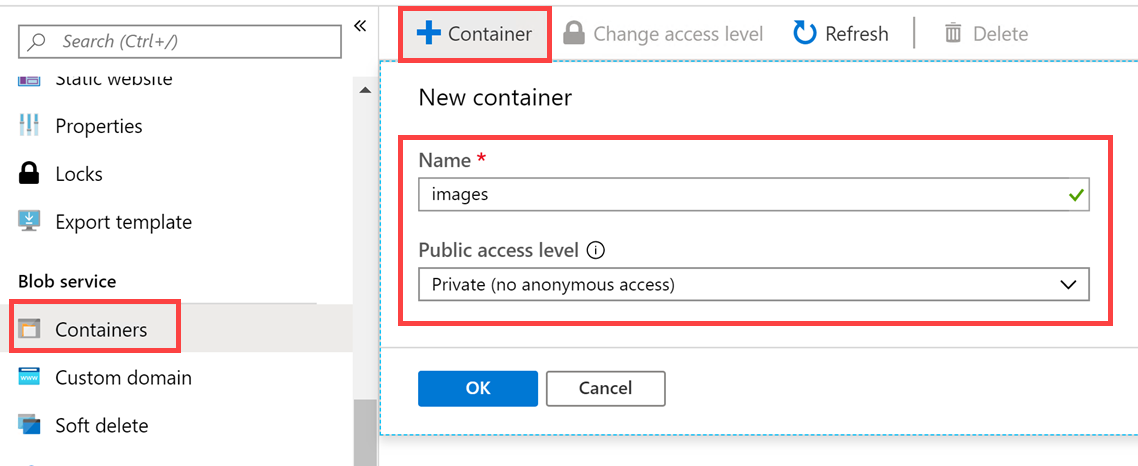
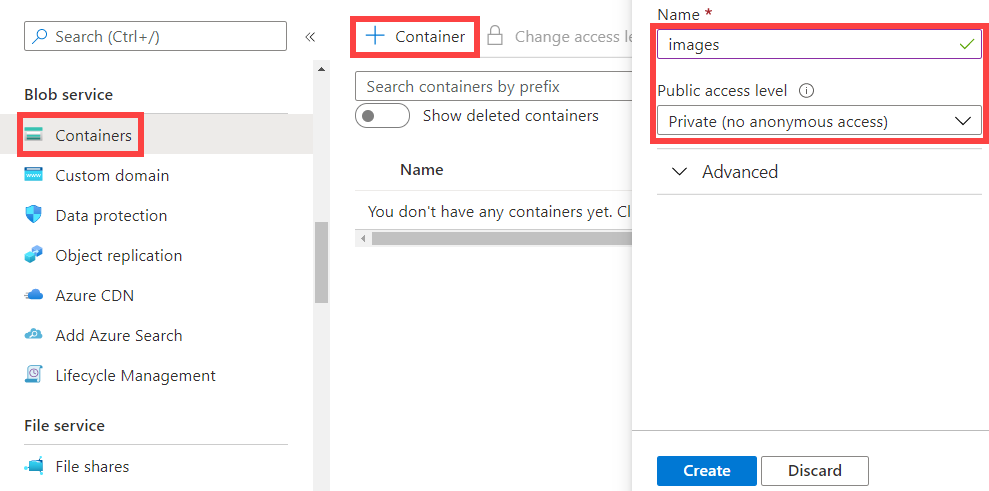
Minor updates to steps.

diff --git a/Hands-on-lab/HOL step-by-step - Serverless architecture.md b/Hands-on-lab/HOL step-by-step - Serverless architecture.md
@@ -161,7 +161,7 @@ In this exercise, you will provision an Azure Blob Storage Account using the Hot
 
 6. Paste the value into a text editor, such as Notepad, for later reference.
 
-7. Select **Containers** under **Blob Service** in the left menu. Then select the **+ Container** button to add a new container. In the **Name** field, enter **images**, select **Private (no anonymous access)** for the public access level, then select **OK** to save.
+7. Select **Containers** under **Blob Service** in the left menu. Then select the **+ Container** button to add a new container. In the **Name** field, enter **images**, select **Private (no anonymous access)** for the public access level, then select **Create** to create the container.
 
     ![In the Storage blade, under Settings, Containers is selected. In the Containers blade, the + (add icon) Container button is selected. Below, the Name field displays images, and the Public access level is set to Private (no anonymous access).](media/storage-new-container-images.png 'Storage and Containers blade')
 
@@ -187,7 +187,7 @@ In this exercise, you will provision an Azure Blob Storage Account using the Hot
 
     d. **Publish**: Select **Code**.
 
-    e. **Runtime stack**: Select **.NET Core**.
+    e. **Runtime stack**: Select **.NET**.
 
     f. **Version**: Select **3.1**.
 
@@ -211,24 +211,15 @@ In this exercise, you will provision an Azure Blob Storage Account using the Hot
 
     a. **Enable Application Insights**: Select **Yes**.
 
-    b. **Application Insights**: Select **Create new**.
+    b. Leave other options 'as is'.
 
-    ![In the Monitoring tab of the Create Function App blade, the form fields are set to the previously defined values.](media/new-functionapp-net-monitoring.png "Function App Monitoring blade")
-
-6. In the `Create new Application Insights` dialog, provide the following information, then select **OK**:
-
-    a. **Name**: Unique value for the App name similar to **TollboothMonitor** (ensure the green check mark appears).
-    b. **Location**: Select the same Azure region you selected for your Function App.
-
-    ![The new Application Insights form is configured as described.](media/new-app-insights.png "Create new Application Insights")
-
-7. Select **Review + create**, then select **Create** to provision the new Function App.
+6. Select **Review + create**, then select **Create** to provision the new Function App.
 
     ![The Review + create button is highlighted.](media/new-functionapp-net-monitoring-review.png "Function App Monitoring")
 
-8. **Repeat steps 1-3** to create a second Function App.
+7. **Repeat steps 1-3** to create a second Function App.
 
-9. Within the **Create Function App** blade *Basics* tab, specify the following configuration options:
+8. Within the **Create Function App** blade *Basics* tab, specify the following configuration options:
 
     a. **Subscription**: Select your Azure subscription for this lab.
 
@@ -406,9 +397,7 @@ In this exercise, you will provision an Azure Blob Storage Account using the Hot
 
     ![In the Create Computer Vision blade, fields are set to the previously defined values.](media/create-computer-vision.png 'Create blade')
 
-3. Select **Create**.
-
-    ![Screenshot of the Create button.](media/image13.png 'Create button')
+3. Select **Review + create** then **Create**.
 
 4. After the Computer Vision API has completed provisioning, open the service by opening the **ServerlessArchitecture** resource group, and then selecting the **Computer Vision** **API** service name.
 
@@ -525,7 +514,7 @@ The starter project, TollBooth, contains most of the code needed. You will add i
 
 In order for your Function App to access Key Vault and read secrets, you must [create a system-assigned managed identity](https://docs.microsoft.com/azure/app-service/overview-managed-identity#adding-a-system-assigned-identity) for the Function App, and [create an access policy in Key Vault](https://docs.microsoft.com/azure/key-vault/key-vault-secure-your-key-vault#key-vault-access-policies) for the application identity.
 
-1. Open the **ServerlessArchitecture** resource group, and then select the Azure Function App you created whose name ends with **FunctionApp**. This is the one you created using the **.NET Core** runtime stack. If you did not use this naming convention, that's fine. Just be sure to make note of the name so you can distinguish it from the Function App you will be developing using the portal later on.
+1. Open the **ServerlessArchitecture** resource group, and then select the Azure Function App you created whose name ends with **FunctionApp**. This is the one you created using the **.NET** runtime stack. If you did not use this naming convention, that's fine. Just be sure to make note of the name so you can distinguish it from the Function App you will be developing using the portal later on.
 
     ![In the ServerlessArchitecture resource group, the TollBoothFunctionApp is selected.](media/image33.png 'ServerlessArchitecture resource group')
 
@@ -541,26 +530,24 @@ In this task, you will apply application settings using the Microsoft Azure Port
 
     ![In the TollBoothFunctionApp blade on the Overview tab, under Configured features, the Configuration item is selected.](media/image34.png 'TollBoothFunctionApp blade')
 
-2. In the **Application settings** section use the **+ New application setting** option to create the following additional Key/Value pairs (the key names must exactly match those found in the table below). **Be sure to remove the curly braces (`{}`)**.
+2. Scroll to the **Application settings** section. Use the **+ New application setting** link to create the following additional Key/Value pairs (the key names must exactly match those found in the table below). **Be sure to remove the curly braces (`{}`)**.
+
+| **Application Key** | **Value** |
+| ------------------------ | :----------------------------------------------------------------------------------------------------: |
+| computerVisionApiUrl     | Computer Vision API endpoint you copied earlier. Append **vision/v2.0/ocr** to the end. Example: `https://<YOUR-SERVICE-NAME>.cognitiveservices.azure.com/vision/v2.0/ocr` |
+| computerVisionApiKey     | Enter `@Microsoft.KeyVault(SecretUri={referenceString})`, where `{referenceString}` is the URI for the **computerVisionApiKey** Key Vault secret                                                                   |
+| eventGridTopicEndpoint   | Event Grid Topic endpoint                                                                  |
+| eventGridTopicKey        | Enter `@Microsoft.KeyVault(SecretUri={referenceString})`, where `{referenceString}` is the URI for the **eventGridTopicKey** Key Vault secret                                                                 |
+| cosmosDBEndPointUrl      | Cosmos DB URI                                                                        |
+| cosmosDBAuthorizationKey | Enter `@Microsoft.KeyVault(SecretUri={referenceString})`, where `{referenceString}` is the URI for the **cosmosDBAuthorizationKey** Key Vault secret                                                                    |
+| cosmosDBDatabaseId       | Cosmos DB database id (LicensePlates)                                                            |
+| cosmosDBCollectionId     | Cosmos DB processed collection id (Processed)                                                        |
+| exportCsvContainerName   | Blob storage CSV export container name (export)                                                       |
+| blobStorageConnection    | Enter `@Microsoft.KeyVault(SecretUri={referenceString})`, where `{referenceString}` is the URI for the **blobStorageConnection** Key Vault secret                                                                |
 
 > **NOTE:** if you would like to quickly add these settings you can modify the [function-app-setting.json](function-app-setting.json) file and then copy/paste it using the **Advanced edit** to add the new settings. Make sure you don't overwrite the existing settings when doing this. Make sure to paste inside of the JSON array in the editor in the Azure Portal.
 
-
-    |                          |                                                                                                                                                             |
-    | ------------------------ | :---------------------------------------------------------------------------------------------------------------------------------------------------------: |
-    | **Application Key**      |                                                                          **Value**                                                                          |
-    | computerVisionApiUrl     | Computer Vision API endpoint you copied earlier. Append **vision/v2.0/ocr** to the end. Example: `https://<YOUR-SERVICE-NAME>.cognitiveservices.azure.com/vision/v2.0/ocr` |
-    | computerVisionApiKey     |                                                                   Enter `@Microsoft.KeyVault(SecretUri={referenceString})`, where `{referenceString}` is the URI for the **computerVisionApiKey** Key Vault secret                                                                   |
-    | eventGridTopicEndpoint   |                                                                  Event Grid Topic endpoint                                                                  |
-    | eventGridTopicKey        |                                                                 Enter `@Microsoft.KeyVault(SecretUri={referenceString})`, where `{referenceString}` is the URI for the **eventGridTopicKey** Key Vault secret                                                                 |
-    | cosmosDBEndPointUrl      |                                                                        Cosmos DB URI                                                                        |
-    | cosmosDBAuthorizationKey |                                                                    Enter `@Microsoft.KeyVault(SecretUri={referenceString})`, where `{referenceString}` is the URI for the **cosmosDBAuthorizationKey** Key Vault secret                                                                    |
-    | cosmosDBDatabaseId       |                                                            Cosmos DB database id (LicensePlates)                                                            |
-    | cosmosDBCollectionId     |                                                        Cosmos DB processed collection id (Processed)                                                        |
-    | exportCsvContainerName   |                                                       Blob storage CSV export container name (export)                                                       |
-    | blobStorageConnection    |                                                               Enter `@Microsoft.KeyVault(SecretUri={referenceString})`, where `{referenceString}` is the URI for the **blobStorageConnection** Key Vault secret                                                                |
-
-    ![In the Application Settings section, the previously defined key / value pairs are displayed.](media/application-settings.png 'Application Settings section')
+![In the Application Settings section, the previously defined key / value pairs are displayed.](media/application-settings.png 'Application Settings section')
 
 3. Select **Save**.
 
